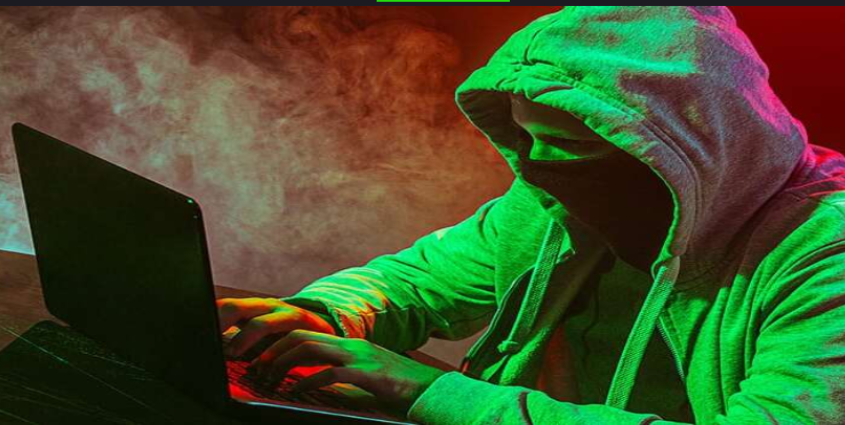
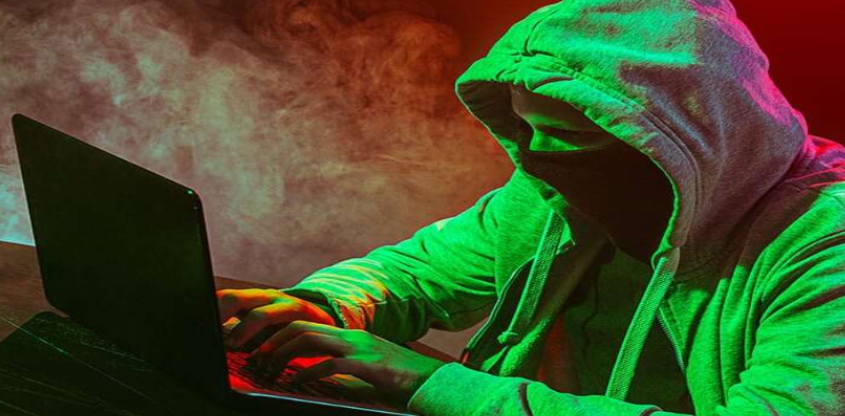
cambio3

diff --git a/src/app/ejercicio2main/ejercicio2main.component.css b/src/app/ejercicio2main/ejercicio2main.component.css
@@ -5,8 +5,9 @@
 }
 body{
     width: 100%;
-    height: 170vh;
+    height: 180vh;
     font-family: Arial, Helvetica, sans-serif;
+    background-color: rgb(43, 43, 43);
 
 }
 #conteini{
@@ -40,6 +41,7 @@ body{
     object-fit: contain;
 }
 #contetarjetas{
+    margin-top: 4%;
     background-color: rgb(43, 43, 43);
     width: 100%;
     height: 70vh;
@@ -55,16 +57,20 @@ body{
     margin: 1px;
     margin-top: 2%;
     color: white;
-    width: 200px;
+    
     display: flex;
     align-items: center;
     justify-content: center;
     flex-direction: column;
     height: 350px;
-    width: 200px;
+    width: 230px;
     gap: 5%;
     border: 2px solid white; 
     border-radius: 8px;
+    transition: transform 0.3s ease;
+}
+.tarjetas:hover{
+    transform: scale(1.05); 
 }
 
 .tarjetas img {
@@ -76,4 +82,8 @@ body{
 }
 #pes{
     color: rgb(99, 255, 37);
+}
+#banner{
+    border-radius: 5px;
+    box-shadow: 0px 0px 10px 1px rgb(129, 129, 129);
 }

diff --git a/src/app/ejercicio2main/ejercicio2main.component.html b/src/app/ejercicio2main/ejercicio2main.component.html
@@ -6,7 +6,7 @@
     </div>
 
     <div id="conteimg">
-        <img src="./assets/img/Captur.png" alt="">
+        <img id="banner" src="./assets/img/Captur.png" alt="">
     </div>
     <div id="contetarjetas">
         <div class="tarjetas">
